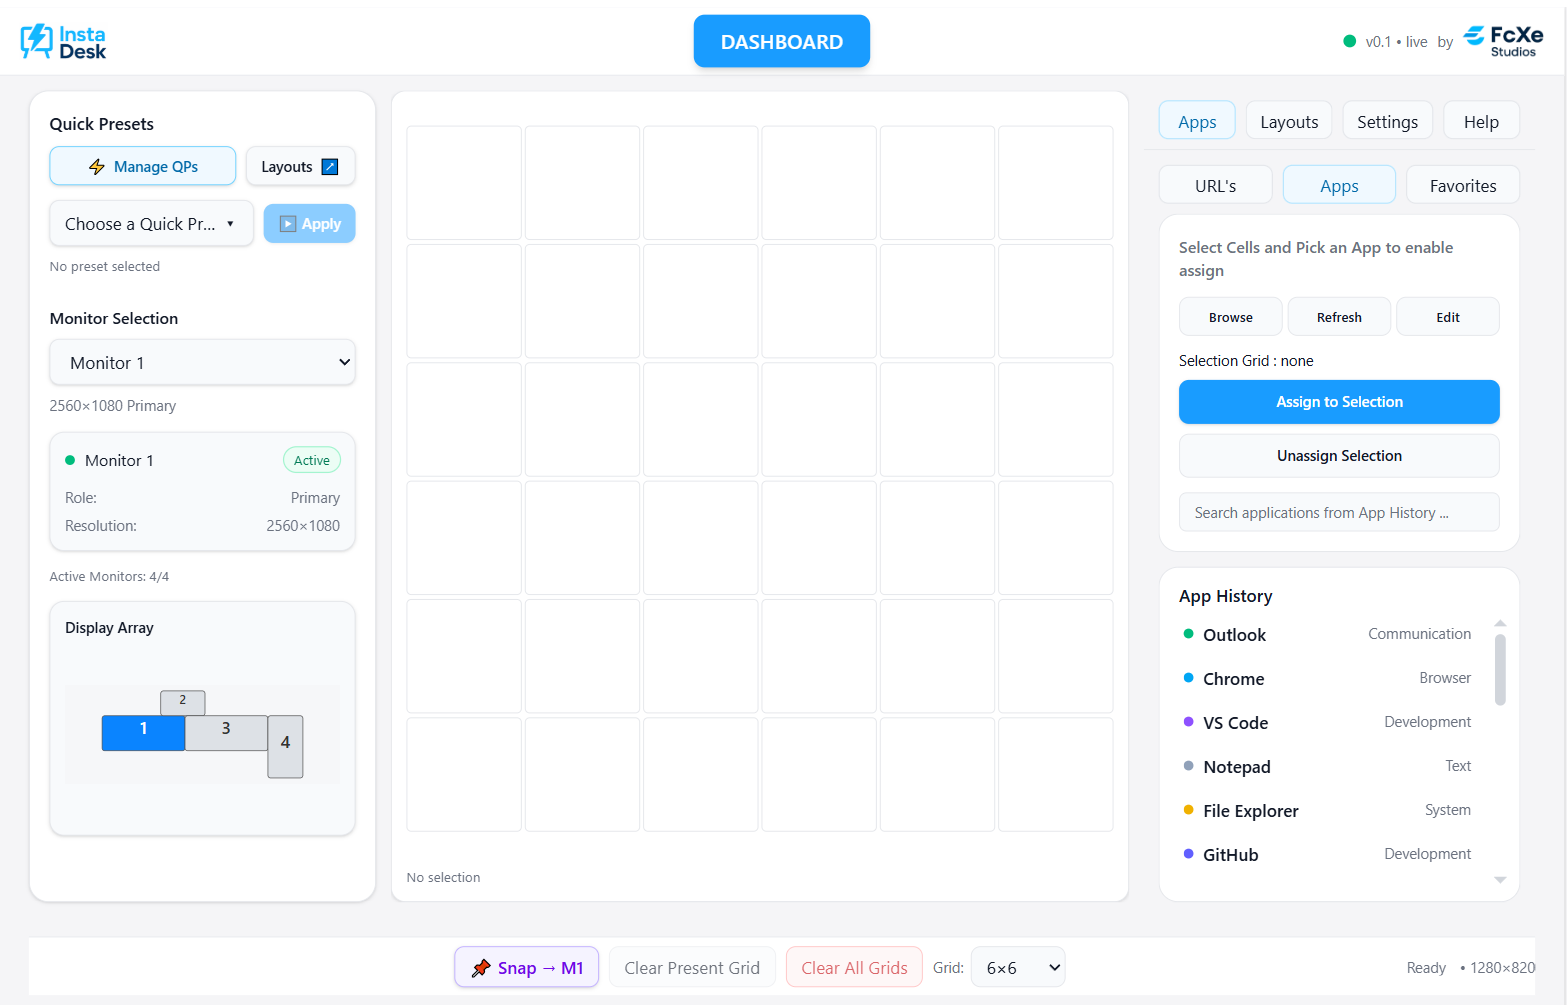
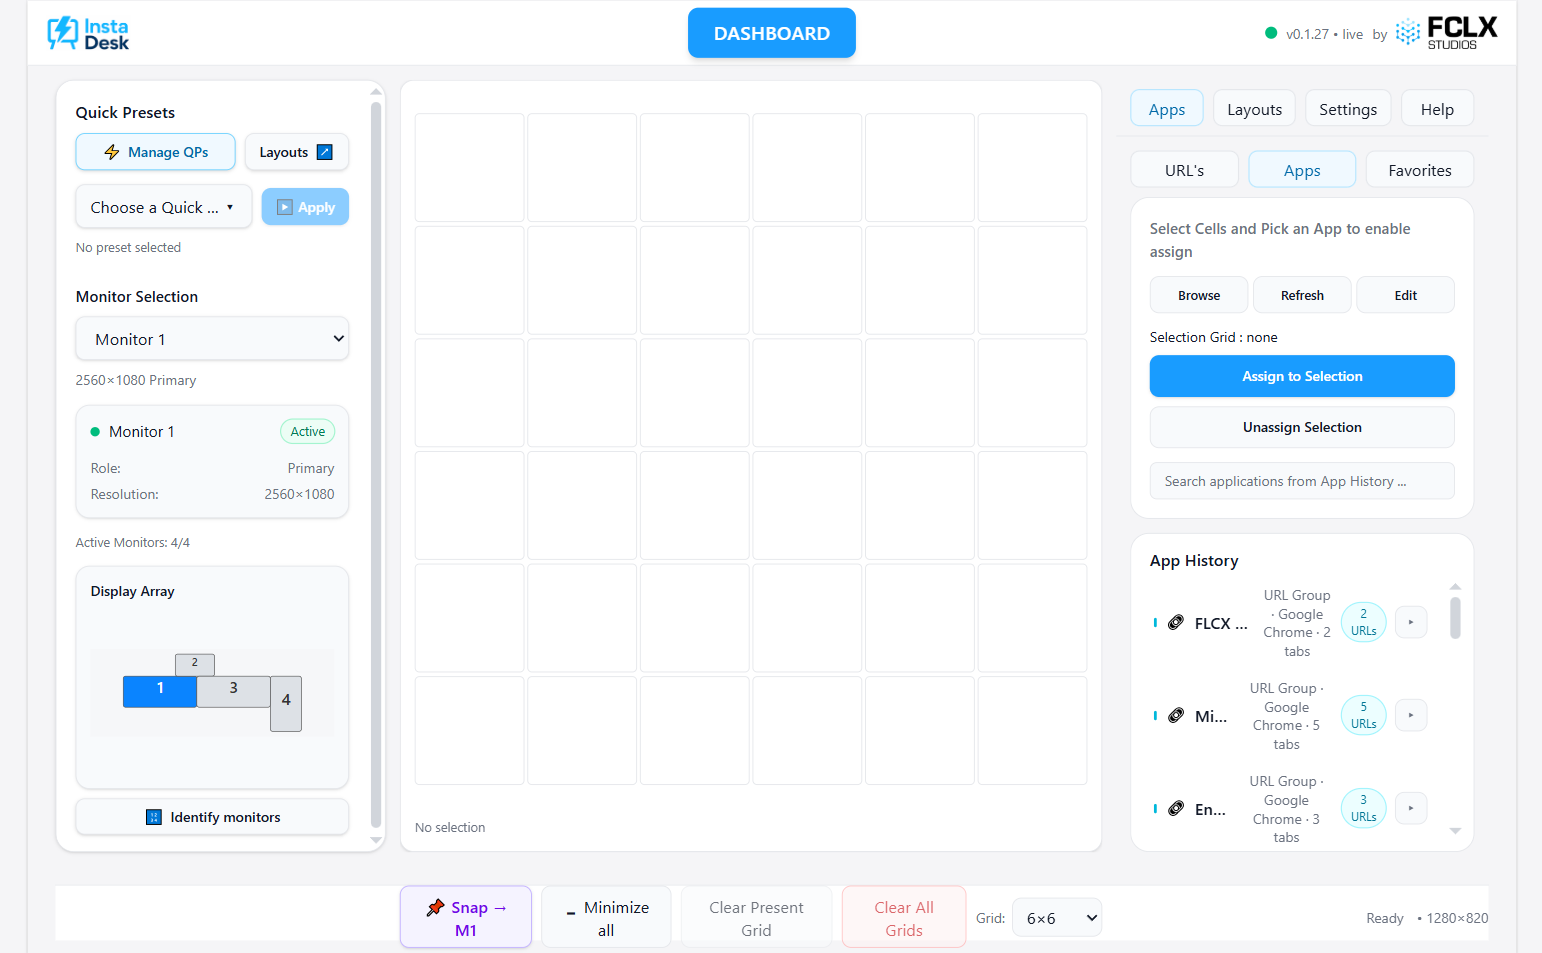
manual: refresh overview + settings screenshots (light theme); ship v0.1.28
Completes the user-manual illustration. The last two placeholders/stale shots —
overview.png and settings.png — were the pre-FCLX June-12 captures (old logo,
"v0.1", missing the Identify-monitors and Minimize/Restore-all buttons and the
newer Settings toggles). I self-captured fresh ones by driving the running app:

- overview.png — the dashboard in LIGHT theme with FCLX branding, now showing
  the Identify monitors button (left panel) and the Minimize all button (Snap
  bar) that the old shot lacked.
- settings.png — the Settings tab in light theme showing General (launch-on-
  start, theme, language, share-usage) + Grid & Snapping (default grid, window
  margin, drag-to-snap).

Captured the CLIENT area only (no titlebar / no border bleed) to match the
existing screenshot style; the app was already in light theme (no theme switch
needed) and was restored to its prior state (Apps tab + maximised) afterward.
PNG (sharp UI text) at ~120 KB each. Rebuilt both PDFs (23 pages, 9 images,
1.42 MB) and visually verified cover v0.1.28 + the overview/settings pages with
pdftoppm. Version bumped 0.1.27 -> 0.1.28 (tauri.conf.json + Cargo.toml).

This ships the now-complete illustrated manual via signed auto-update, batching
the held drag-to-snap + identify shots (9862ea6) with this overview/settings
refresh into one release.

diff --git a/docs/manual/manual.en.html b/docs/manual/manual.en.html
@@ -66,7 +66,7 @@
 <section class="cover">
   <div class="logo">Insta<span>Desk</span></div>
   <div class="sub">Multi-monitor launcher &amp; window-tiling — User Manual</div>
-  <div class="meta">FCLX Studios · v0.1.27 · English</div>
+  <div class="meta">FCLX Studios · v0.1.28 · English</div>
 </section>
 
 <nav class="toc">

diff --git a/docs/manual/manual.es.html b/docs/manual/manual.es.html
@@ -66,7 +66,7 @@
 <section class="cover">
   <div class="logo">Insta<span>Desk</span></div>
   <div class="sub">Lanzador multimonitor y organización de ventanas — Manual de Usuario</div>
-  <div class="meta">FCLX Studios · v0.1.27 · Español</div>
+  <div class="meta">FCLX Studios · v0.1.28 · Español</div>
 </section>
 
 <nav class="toc">